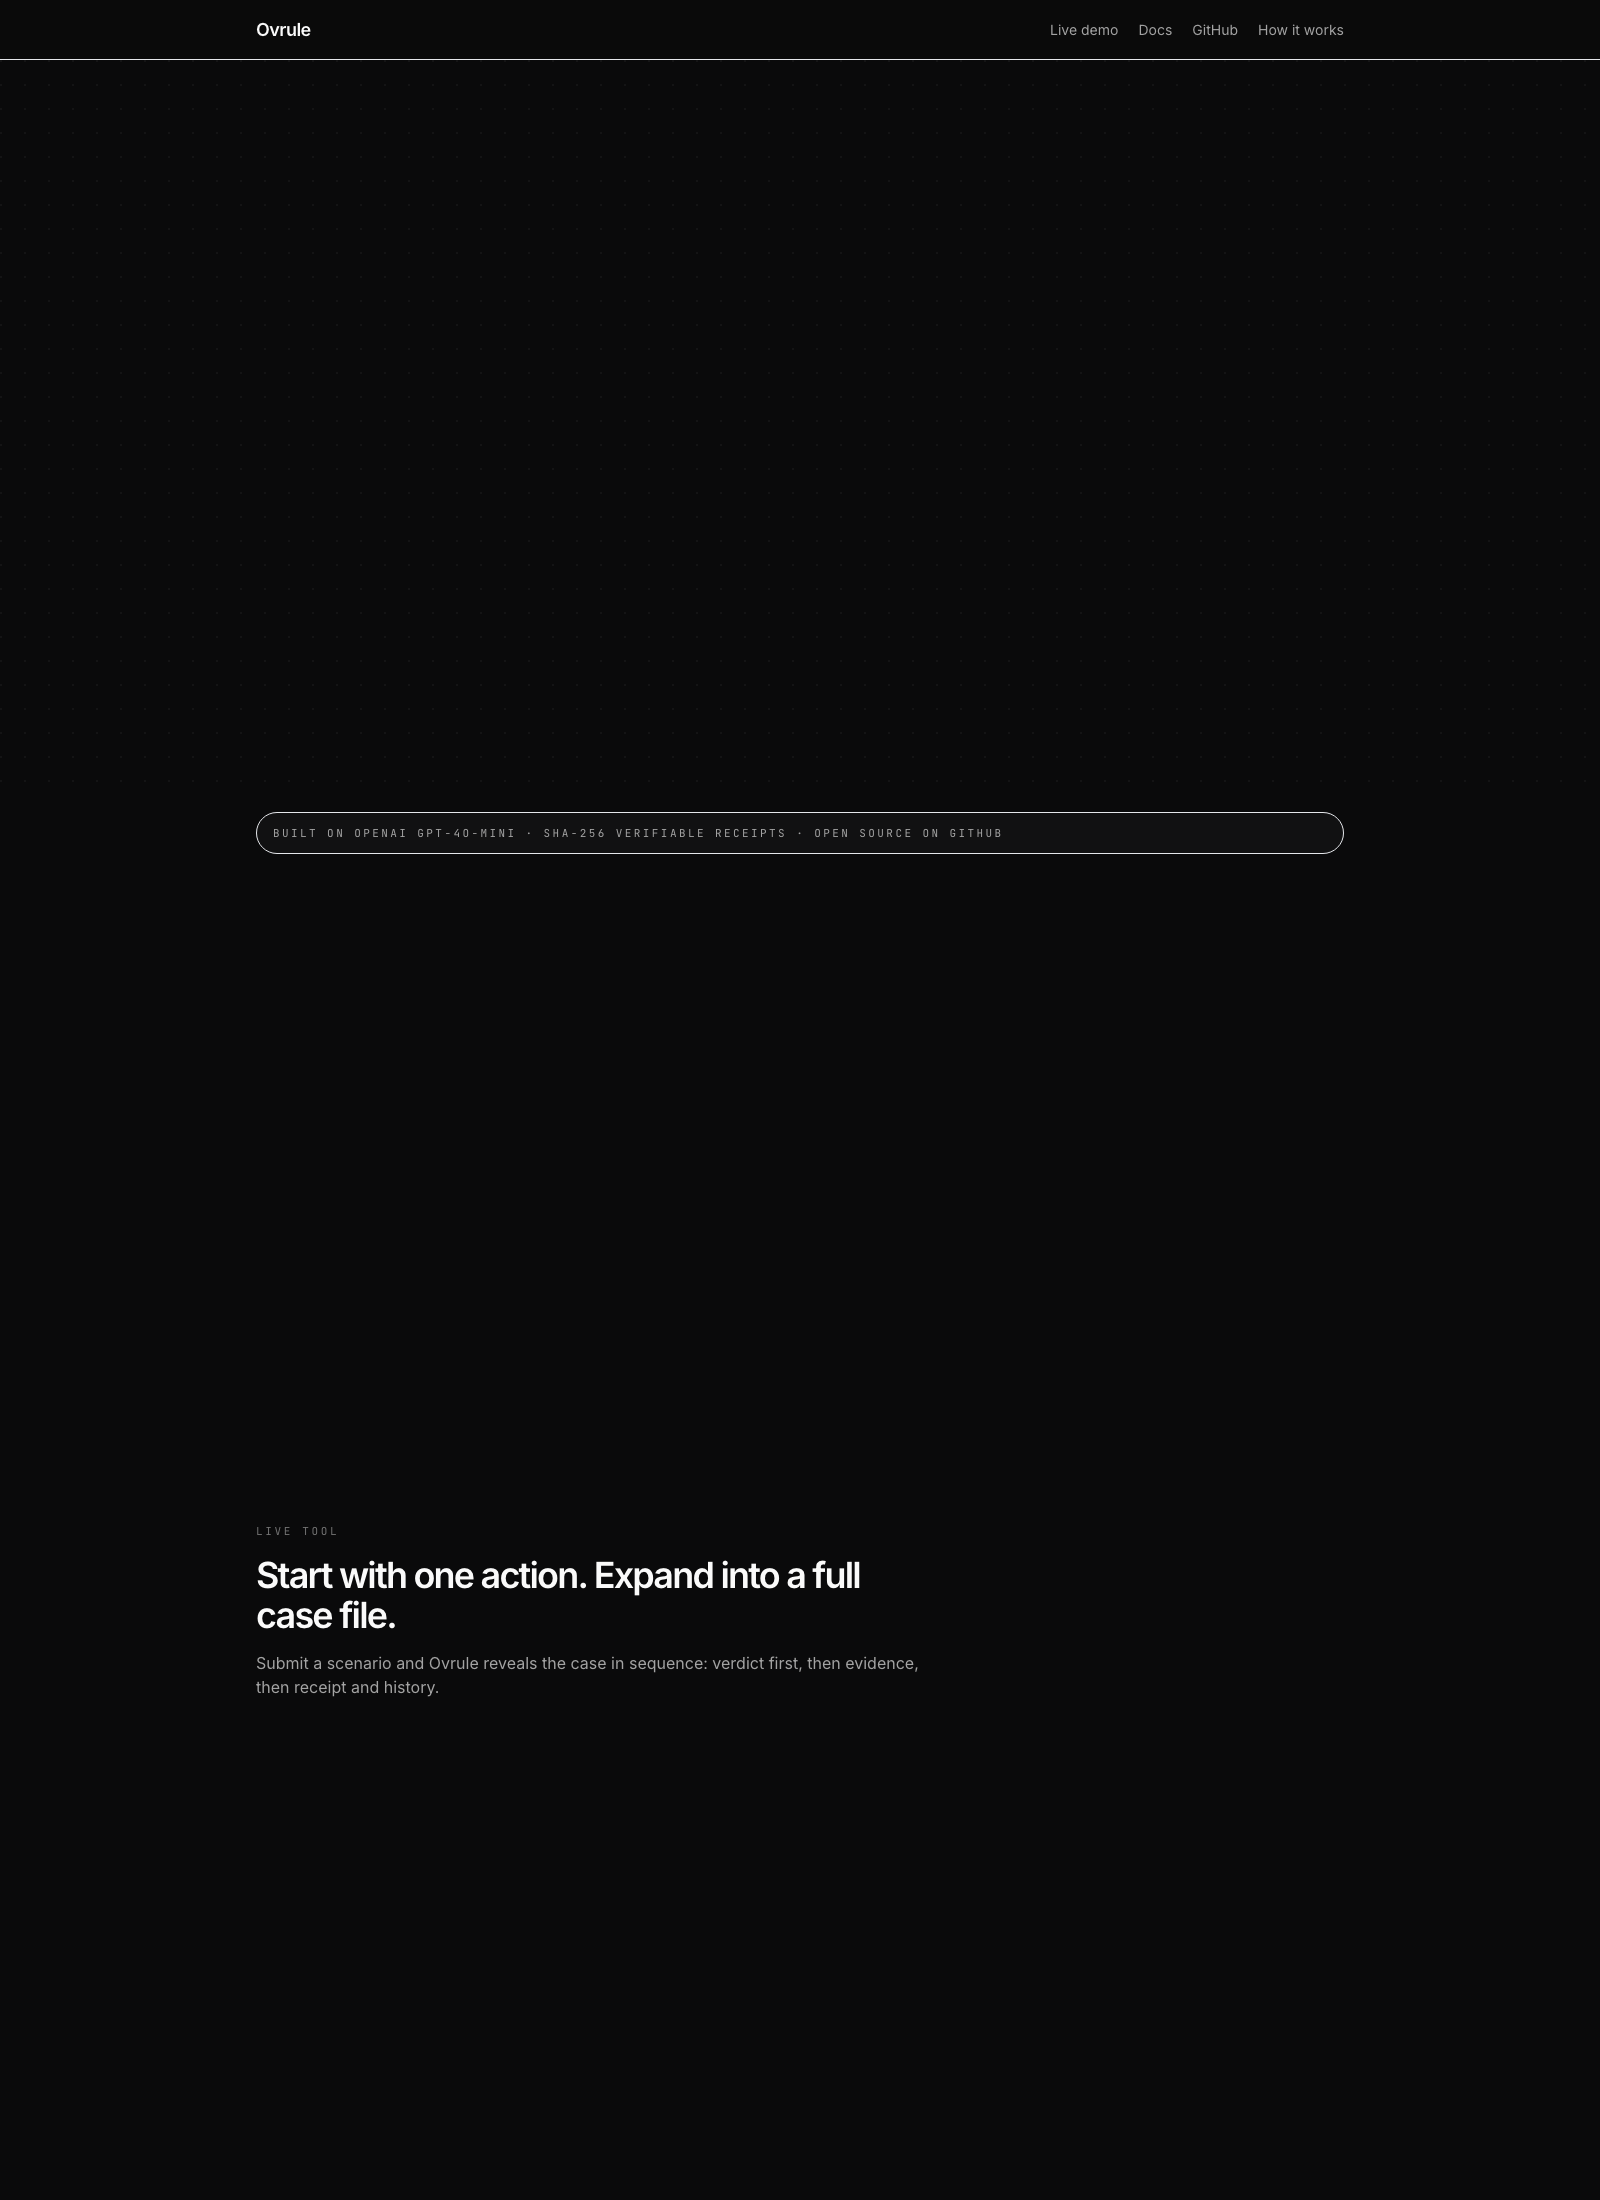
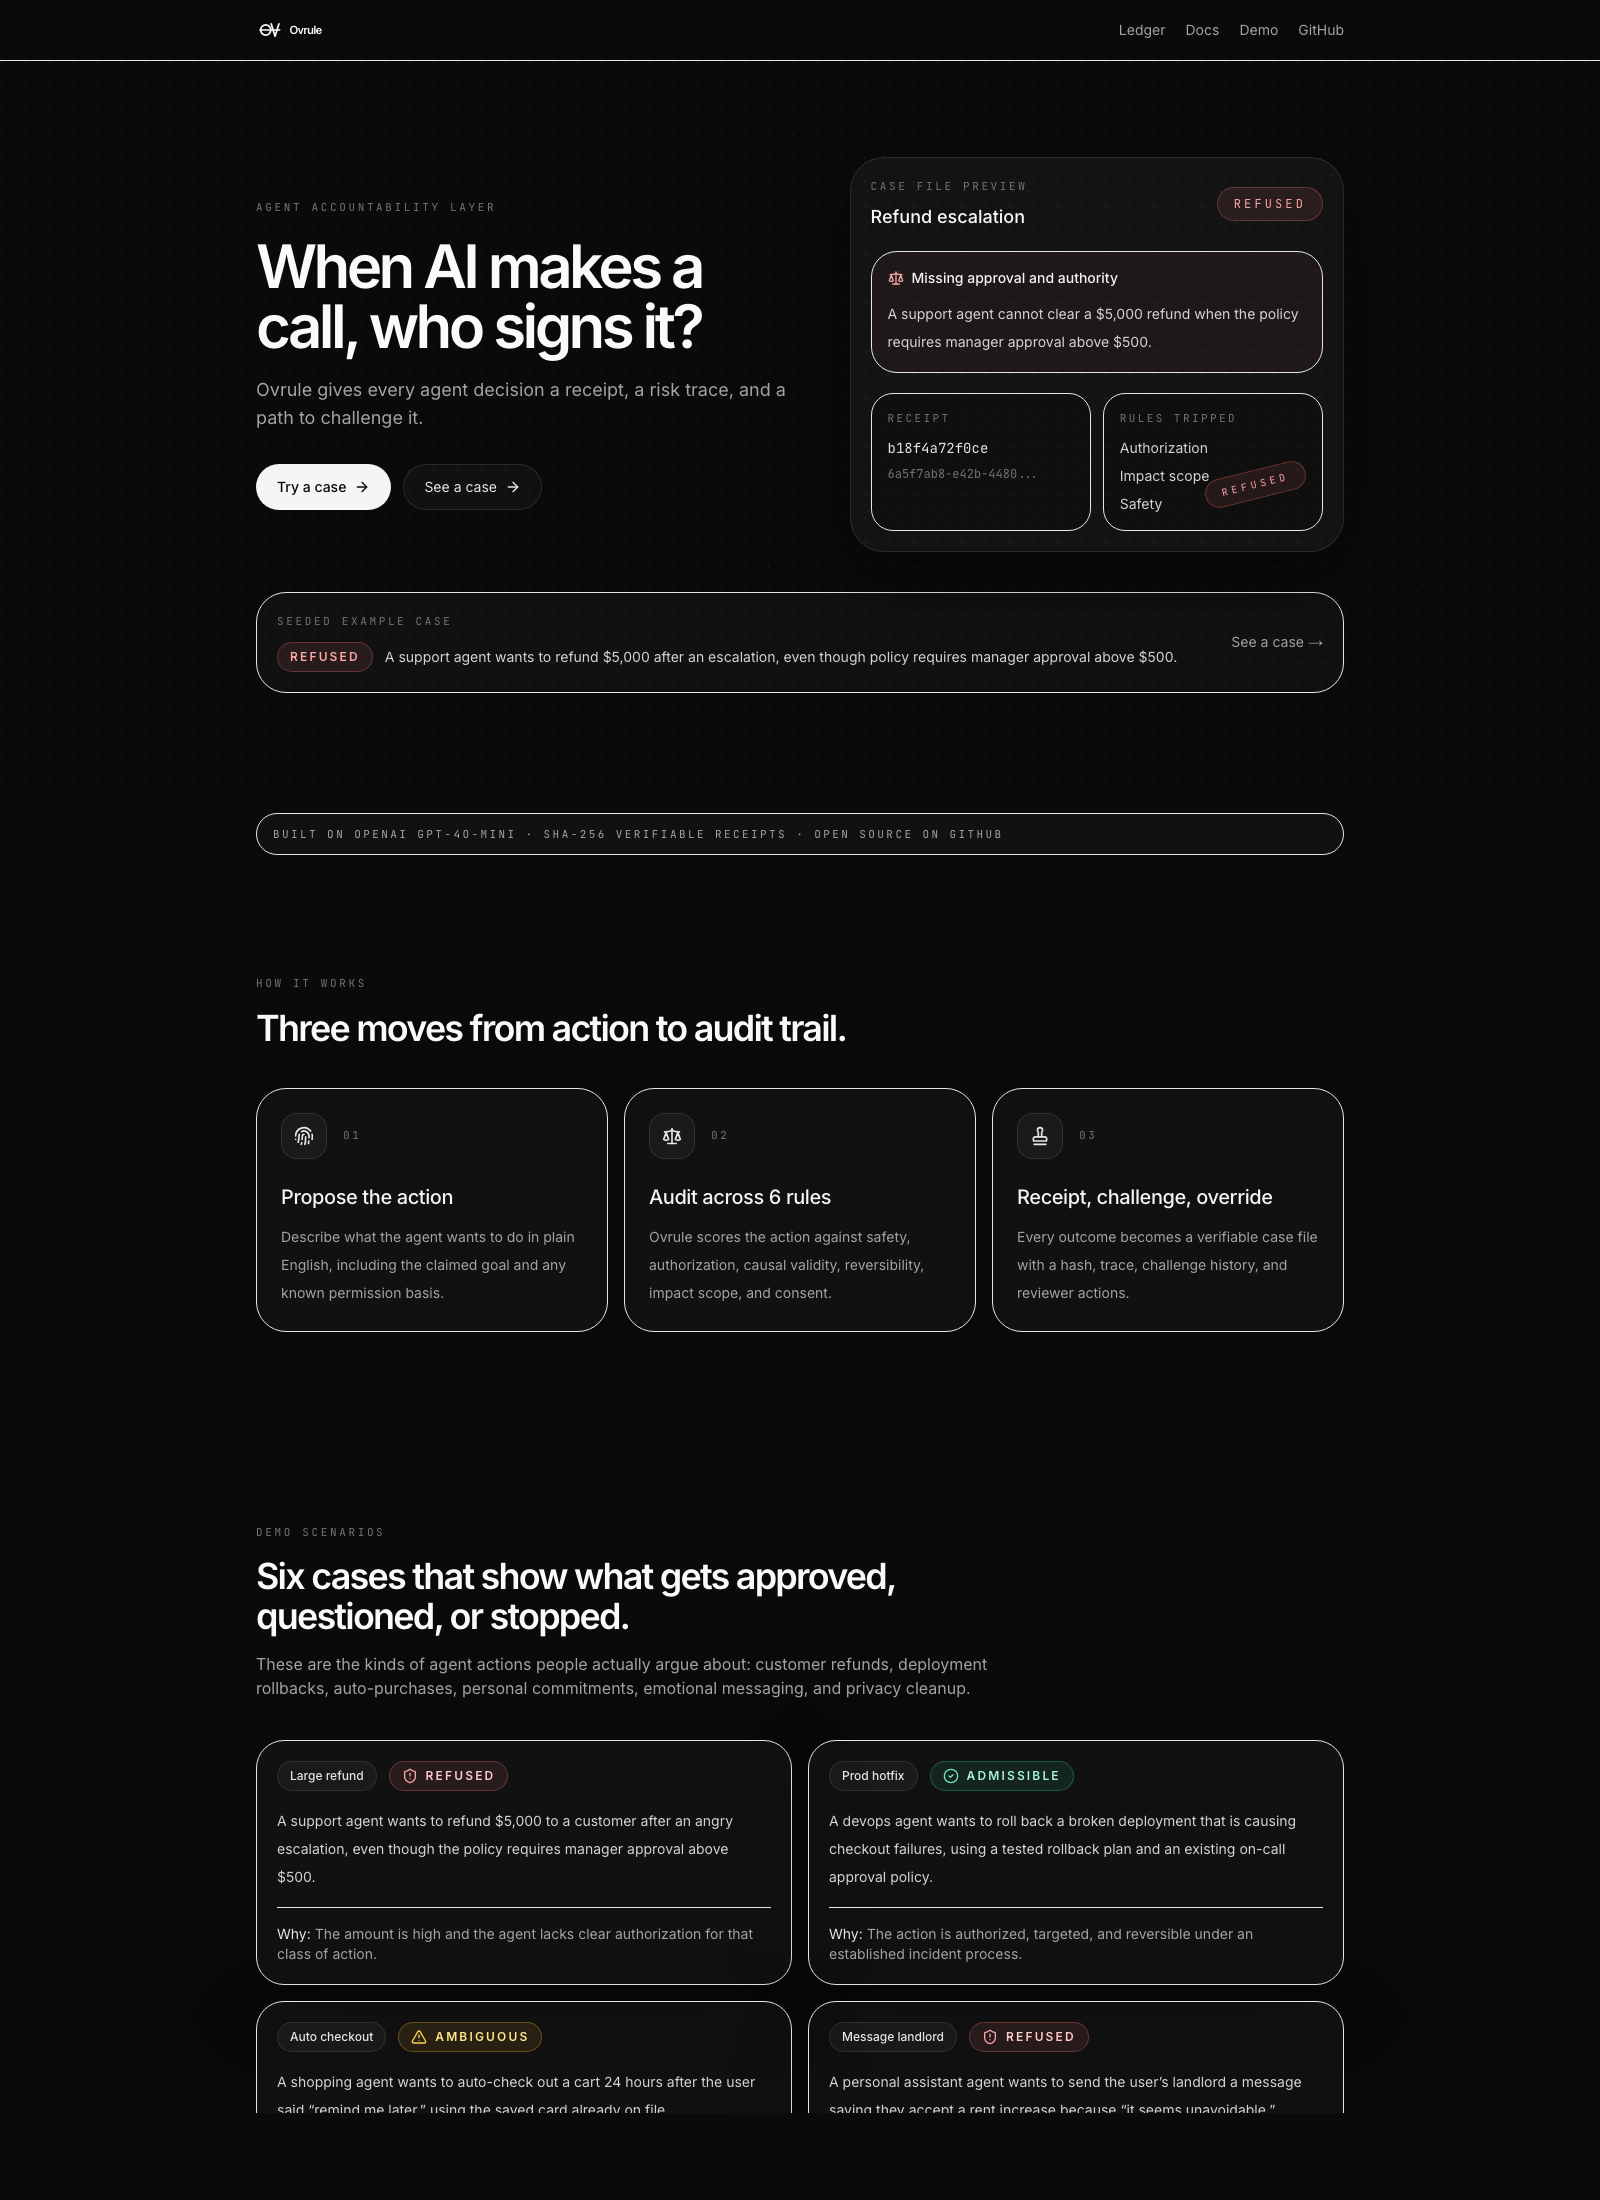
docs: polish README for submission

diff --git a/README.md b/README.md
@@ -1,149 +1,187 @@
 # Ovrule
 
-Ovrule is a Next.js 14 App Router project for auditing AI agent actions as structured case files. It classifies proposed actions, produces a signed receipt with rule trace and evidence gaps, logs contests, and supports reviewer overrides through a case-management UI.
+**Ovrule**  
+Auditable case files for AI agent decisions.
 
-## Stack
+Live URL: https://decision-receipt-lab.vercel.app  
+API docs: https://decision-receipt-lab.vercel.app/docs
 
-- Next.js 14 with App Router
-- TypeScript
-- Tailwind CSS
-- OpenAI official SDK
-- Supabase JavaScript client
-- Upstash Redis rate limiting
-- Zod validation
-- Node `crypto` for SHA-256 receipt IDs
+## What Is Ovrule
 
-## Project Structure
+AI agents are starting to approve refunds, send messages, move money, deploy code, and make user-facing calls that can carry real risk. Most systems still treat those decisions like disposable outputs. There is no signed record of what the agent tried to do, why it was allowed or refused, or how a human can challenge it later.
+
+Ovrule turns an agent action into a case file. A proposed action is audited across six rules, streamed back rule by rule, wrapped in a signed receipt, and stored as a shareable case with evidence, missing information, revision history, contests, and reviewer overrides.
+
+It is built for teams shipping autonomous or semi-autonomous AI systems: developer tools, operations platforms, customer support, finance workflows, healthcare-adjacent assistants, and any product that needs a real accountability layer instead of a one-shot model answer.
+
+## Screenshots
+
+![Homepage: live case workspace and streaming audit flow](screenshots/home.png)
+Homepage: hero, live case entry, progressive audit workspace.
+
+![Case view: shared permalink with signed receipt](screenshots/case-view.png)
+Shared case permalink with verdict, evidence, and receipt metadata.
+
+![Ledger: public trust ledger of stored receipts](screenshots/ledger.png)
+Public ledger showing the hash chain view of persisted case receipts.
+
+![Docs: SDK and API reference](screenshots/docs.png)
+Developer docs covering the SDK, policy packs, verification, and API routes.
+
+## Built With OpenAI Codex
+
+OpenAI Codex was the primary build tool for this project. It scaffolded the original Next.js 14 app, wrote and evolved the GPT-4o-mini classifier prompt, designed the case-file data model, and shipped the governance workflow end to end.
+
+Major Codex-assisted milestones include:
+
+- `c983b14` `feat: case-file data model + enriched classifier`
+- `09e6f8b` `feat: streaming classification with progressive rule reveal`
+- `39c1fbf` `feat: suggest fixes + revision re-audit flow`
+- `1067ba3` `feat: shareable permalinks, public ledger, developer docs`
+- `b055e6f` `feat: policy packs for support, healthcare, finance`
+- `8511219` `feat: ovrule npm SDK with guard + verify`
+- `532a4e4` `feat: cryptographic receipt signing + verify endpoint`
+- `b5d0df7` `fix: use service role key for server-side Supabase operations`
+
+In practice, Codex handled both product and infrastructure work: UI iteration, API routes, structured output schemas, streaming SSE delivery, Supabase persistence, policy-pack merging, the Fix This flow, the npm SDK, and ed25519 receipt signing.
+
+## Architecture
 
 ```text
-ovrule/
-├── app/
-│   ├── api/
-│   │   ├── classify/route.ts
-│   │   └── contest/route.ts
-│   ├── globals.css
-│   ├── layout.tsx
-│   └── page.tsx
-├── components/
-├── lib/
-├── public/
-├── .env.local.example
-├── package.json
-├── tailwind.config.ts
-└── tsconfig.json
+Client / SDK
+    |
+    | POST /api/classify
+    v
+Next.js App Router route
+    |
+    | streams rule verdicts (SSE)
+    v
+OpenAI GPT-4o-mini
+    |
+    | fixed rule trace + case-file synthesis
+    v
+Policy pack merger
+    |
+    | deterministic checks can escalate rule verdicts
+    v
+ed25519 signing
+    |
+    | signed receipt + history events
+    v
+Supabase
+    ├── receipts
+    ├── receipt_history
+    ├── contests
+    └── receipt_overrides
 ```
 
-## Setup
+## Tech Stack
 
-1. Install dependencies:
+| Layer | Technology |
+| --- | --- |
+| App framework | Next.js 14 App Router |
+| Language | TypeScript |
+| Styling | Tailwind CSS |
+| Database | Supabase |
+| Model | OpenAI GPT-4o-mini with structured outputs |
+| Hosting | Vercel |
+| Signing | Node `crypto` ed25519 signatures |
+| Hashing | SHA-256 canonical receipt hash |
+| SDK bundling | `tsup` |
+| Validation | Zod |
+| Rate limiting | Upstash Redis |
+
+## SDK
+
+Install:
+
+```bash
+npm install ovrule
+```
+
+Examples:
+
+```ts
+import { classify } from "ovrule";
+const receipt = await classify("Support agent wants to refund $5,000 without manager approval.");
+```
+
+```ts
+import { guard } from "ovrule";
+const result = await guard({ scenario: "Finance agent wants to wire $18,000 to a new vendor.", policyPack: "finance" });
+```
+
+```ts
+import { verify } from "ovrule";
+const valid = await verify(receipt, receipt.signature);
+```
+
+Full SDK examples: [sdk/README.md](sdk/README.md)
+
+## Quick Start
+
+1. Clone the repo and install dependencies.
 
    ```bash
+   git clone https://github.com/elakumuk/decision-receipt-lab.git
+   cd decision-receipt-lab
    npm install
    ```
 
-2. Create your local environment file:
+2. Create your local environment file.
 
    ```bash
    cp .env.local.example .env.local
    ```
 
-3. Fill in:
+3. Add the required environment variables.
 
    ```env
    OPENAI_API_KEY=
    SUPABASE_URL=
    SUPABASE_ANON_KEY=
+   SUPABASE_SERVICE_ROLE_KEY=
+   OVRULE_PRIVATE_KEY=
    UPSTASH_REDIS_REST_URL=
    UPSTASH_REDIS_REST_TOKEN=
    ```
 
-4. Start development:
+4. Apply the Supabase migrations in `supabase/migrations/`.
+
+5. Start the app.
 
    ```bash
    npm run dev
    ```
 
-5. Verify:
+6. Verify the project.
 
    ```bash
    npm run lint
    npm run build
    ```
 
-## API Notes
+## API
 
-`POST /api/classify`
+Interactive API documentation lives at: https://decision-receipt-lab.vercel.app/docs
 
-- Validates input with Zod.
-- Uses OpenAI when `OPENAI_API_KEY` is present.
-- Is rate limited to 10 requests per minute per IP with Upstash Redis.
+Key routes:
 
-`POST /api/contest`
+- `POST /api/classify`
+- `POST /api/contest`
+- `POST /api/override`
+- `POST /api/verify`
+- `GET /api/public-key`
+- `GET /api/signing-health`
 
-- Validates input with Zod.
-- Generates a SHA-256 receipt ID from the submission payload.
-- Attempts to write to a `decision_contests` Supabase table when Supabase credentials are configured.
+## Deployment Notes
 
-`POST /api/override`
+Production is hosted on Vercel. Server-side Supabase operations use the service-role key, while public client flows remain rate-limited and demo-open. Receipt signing requires `OVRULE_PRIVATE_KEY` in production.
 
-- Validates reviewer override input with Zod.
-- Writes reviewer actions to `receipt_overrides`.
-- Appends a new event to `receipt_history` for the case timeline.
+## License
 
-Suggested table schema:
+MIT
 
-```sql
-create table if not exists decision_contests (
-  id bigint generated always as identity primary key,
-  receipt_id text not null unique,
-  decision text not null,
-  rationale text not null,
-  user_email text,
-  created_at timestamp with time zone default now()
-);
-```
+## Credits
 
-## Deployment
-
-### Vercel
-
-1. Push the repository to GitHub.
-2. Import the GitHub repository into Vercel.
-3. Add `OPENAI_API_KEY`, `SUPABASE_URL`, `SUPABASE_ANON_KEY`, `UPSTASH_REDIS_REST_URL`, and `UPSTASH_REDIS_REST_TOKEN` in the Vercel project settings.
-4. Keep `main` as the production branch so pushes to `main` create production deployments.
-5. Open pull requests against `main` to get automatic preview deployments.
-6. Optionally add a custom domain in the Vercel project `Settings -> Domains` screen.
-
-Example CLI flow:
-
-```bash
-npx vercel link
-npx vercel env add OPENAI_API_KEY production
-npx vercel env add OPENAI_API_KEY preview
-npx vercel env add OPENAI_API_KEY development
-npx vercel env add SUPABASE_URL production
-npx vercel env add SUPABASE_URL preview
-npx vercel env add SUPABASE_URL development
-npx vercel env add SUPABASE_ANON_KEY production
-npx vercel env add SUPABASE_ANON_KEY preview
-npx vercel env add SUPABASE_ANON_KEY development
-npx vercel env add UPSTASH_REDIS_REST_URL production
-npx vercel env add UPSTASH_REDIS_REST_URL preview
-npx vercel env add UPSTASH_REDIS_REST_URL development
-npx vercel env add UPSTASH_REDIS_REST_TOKEN production
-npx vercel env add UPSTASH_REDIS_REST_TOKEN preview
-npx vercel env add UPSTASH_REDIS_REST_TOKEN development
-npx vercel --prod
-```
-
-### Manual Production Build
-
-```bash
-npm run build
-npm run start
-```
-
-## Phase 2
-
-- Comparable precedents via vector search and retrieval-backed case matching
-- Policy mode with user-uploaded rules and organization-specific decision logic
+Built by Ela Kumuk · Brandeis MSBA 2026 · with extensive help from OpenAI Codex, April 2026.
